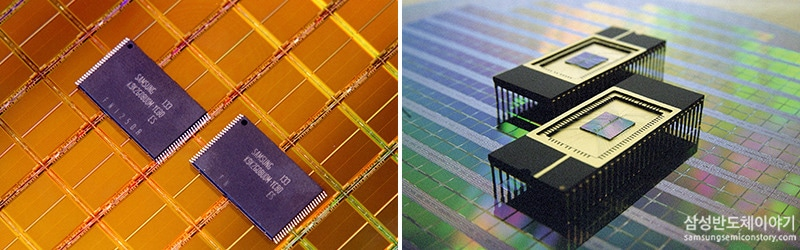
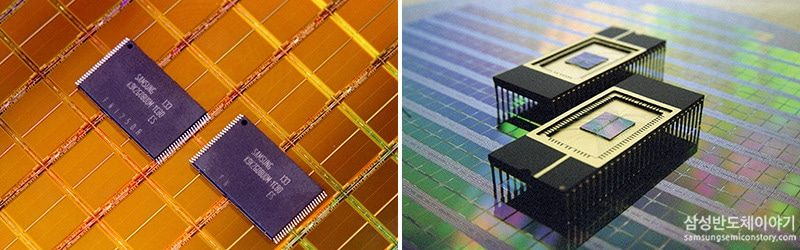
Serve slide photos from the site's own img folder
Claude-Session: https://claude.ai/code/session_01SDjf7BjrNJdgJKmYmttFar

diff --git a/index.html b/index.html
@@ -1165,6 +1165,10 @@ function foot(s, i) {
   }).join("");
   return `<footer class="s-foot"><div class="src">${src}</div><span class="pg">${pad(i + 1)} / ${pad(deck.slides.length)}</span></footer>`;
 }
+/* v8.1: photos are served from the deck's own img/ folder first, original URL as fallback */
+const LOCAL_IMG = {"https://img.global.news.samsung.com/global/wp-content/uploads/2017/07/1.-Samsung-Electronics-Pyeongtaek-Line-1.jpg": "img/p01.jpg", "https://hanmi.co.kr/file/editor/1754970686072.jpg": "img/p02.jpg", "https://images.unsplash.com/photo-1603048588665-791ca8aea617?w=1200&q=80&auto=format&fit=crop": "img/p03.jpg", "https://images.unsplash.com/photo-1618034100983-e1d78be0dc80?w=1200&q=80&auto=format&fit=crop": "img/p04.jpg", "https://images.unsplash.com/photo-1577639389657-e33f4c461e4e?w=1200&q=80&auto=format&fit=crop": "img/p05.jpg", "https://images.unsplash.com/photo-1563137391-0030ae24bc35?w=1200&q=80&auto=format&fit=crop": "img/p06.jpg", "https://image.semiconductor.samsung.com/image/samsung/p6/semiconductor-kr/newsroom/tech-blog/tech-blog-%EC%98%81%EB%AC%B8-%ED%83%80%EC%9D%B4%ED%8B%80-%EB%B3%80%EA%B2%BD/all-there-is-to-know-about-flash-memory-how-no1-flash-memory-came-about/all-there-is-to-know-about-flash-memory-how-no1-flash-memory-came-about_PC_2.jpg?$ORIGIN_JPG$": "img/p07.jpg", "https://img.global.news.samsung.com/global/wp-content/uploads/2017/07/4.-Samsung%E2%80%99s-fourth-generation-V-NAND_01.jpg": "img/p08.jpg", "https://img.global.news.samsung.com/global/wp-content/uploads/2024/04/9th-Generation-V-NAND_dl1.jpg": "img/p09.jpg", "https://www.hanmi.co.kr/file/editor/1791367079321.jpg": "img/p10.jpg"};
+const ALT_JS = "if(this.dataset.alt){var a=this.dataset.alt;this.removeAttribute('data-alt');this.src=a;return;}";
+const imgSrc = u => LOCAL_IMG[u] ? `src="${esc(LOCAL_IMG[u])}" data-alt="${esc(u)}"` : `src="${esc(u)}"`;
 const COL = { break: "var(--c-coral)", branch: "var(--c-orange)", converge: "var(--c-violet)", steps: "var(--c-teal)", ceiling: "var(--c-blue)" };
 const PAL = ["var(--c-blue)", "var(--c-teal)", "var(--c-violet)", "var(--c-orange)", "var(--c-coral)", "var(--c-sky)"];
 const PHASE_COL = ["var(--c-orange)", "var(--c-blue)", "var(--c-violet)", "var(--c-teal)"];
@@ -1182,7 +1186,7 @@ function figure(s, key, cls = "", tag = "", color = "") {
   const im = getPath(s, key) || {};
   const u = safeUrl(resolveSrc(im.src));
   const fb = FALLBACK[im.fallback] ? `<div class="fb">${FALLBACK[im.fallback]()}</div>` : "";
-  const media = u ? `<img src="${esc(u)}" alt="${esc(im.caption || "")}" referrerpolicy="no-referrer" onerror="var m=this.parentNode;m.classList.add('img-fail');if(!m.querySelector('.fb'))m.closest('figure').style.display='none'">` : "";
+  const media = u ? `<img ${imgSrc(u)} alt="${esc(im.caption || "")}" referrerpolicy="no-referrer" onerror="${ALT_JS}var m=this.parentNode;m.classList.add('img-fail');if(!m.querySelector('.fb'))m.closest('figure').style.display='none'">` : "";
   return `<figure class="fig ${cls}"><div class="media${u ? "" : " no-img"}">${media}${fb}${tag ? `<span class="chip-tag" style="--c:${color}">${esc(tag)}</span>` : ""}<button class="img-edit edit-only" data-imgedit="${key}">이미지 바꾸기</button></div>
     <figcaption>${ed(s, key + ".caption")}${ed(s, key + ".credit", "span", "credit")}</figcaption></figure>`;
 }
@@ -1321,7 +1325,7 @@ R.jump = (s, i) => {
     </div>
     <div class="side">
       <div class="ex-title rise"${rise(1)}>불연속 기술의 예</div>
-      <ul class="examples">${(s.examples || []).map((e, k) => `<li class="rise${e.imgFrom || e.imgTo ? " has-img" : ""}" style="--i:${k + 2}">${e.imgFrom || e.imgTo ? `<span class="ex-imgs">${[e.imgFrom, e.imgTo].map((u, j) => safeUrl(u) ? `<img class="ex-img${j ? " to" : ""}" src="${esc(safeUrl(u))}" alt="" referrerpolicy="no-referrer" onerror="this.style.visibility='hidden'">` : "<span class=ex-img></span>").join("")}</span>` : ""}<span class="ex-from" data-k="examples.${k}.from">${esc(e.from)}</span><span class="ex-arrow">→</span><span class="ex-to" data-k="examples.${k}.to">${esc(e.to)}</span>${e.note != null ? `<small data-k="examples.${k}.note">${esc(e.note)}</small>` : ""}</li>`).join("")}</ul>
+      <ul class="examples">${(s.examples || []).map((e, k) => `<li class="rise${e.imgFrom || e.imgTo ? " has-img" : ""}" style="--i:${k + 2}">${e.imgFrom || e.imgTo ? `<span class="ex-imgs">${[e.imgFrom, e.imgTo].map((u, j) => safeUrl(u) ? `<img class="ex-img${j ? " to" : ""}" ${imgSrc(safeUrl(u))} alt="" referrerpolicy="no-referrer" onerror="${ALT_JS}this.style.visibility='hidden'">` : "<span class=ex-img></span>").join("")}</span>` : ""}<span class="ex-from" data-k="examples.${k}.from">${esc(e.from)}</span><span class="ex-arrow">→</span><span class="ex-to" data-k="examples.${k}.to">${esc(e.to)}</span>${e.note != null ? `<small data-k="examples.${k}.note">${esc(e.note)}</small>` : ""}</li>`).join("")}</ul>
       <div class="caveat soft rise"${rise(5)}>${icon("info")}${ed(s, "insight")}</div>
     </div>
   </div></div>${foot(s, i)}`;
